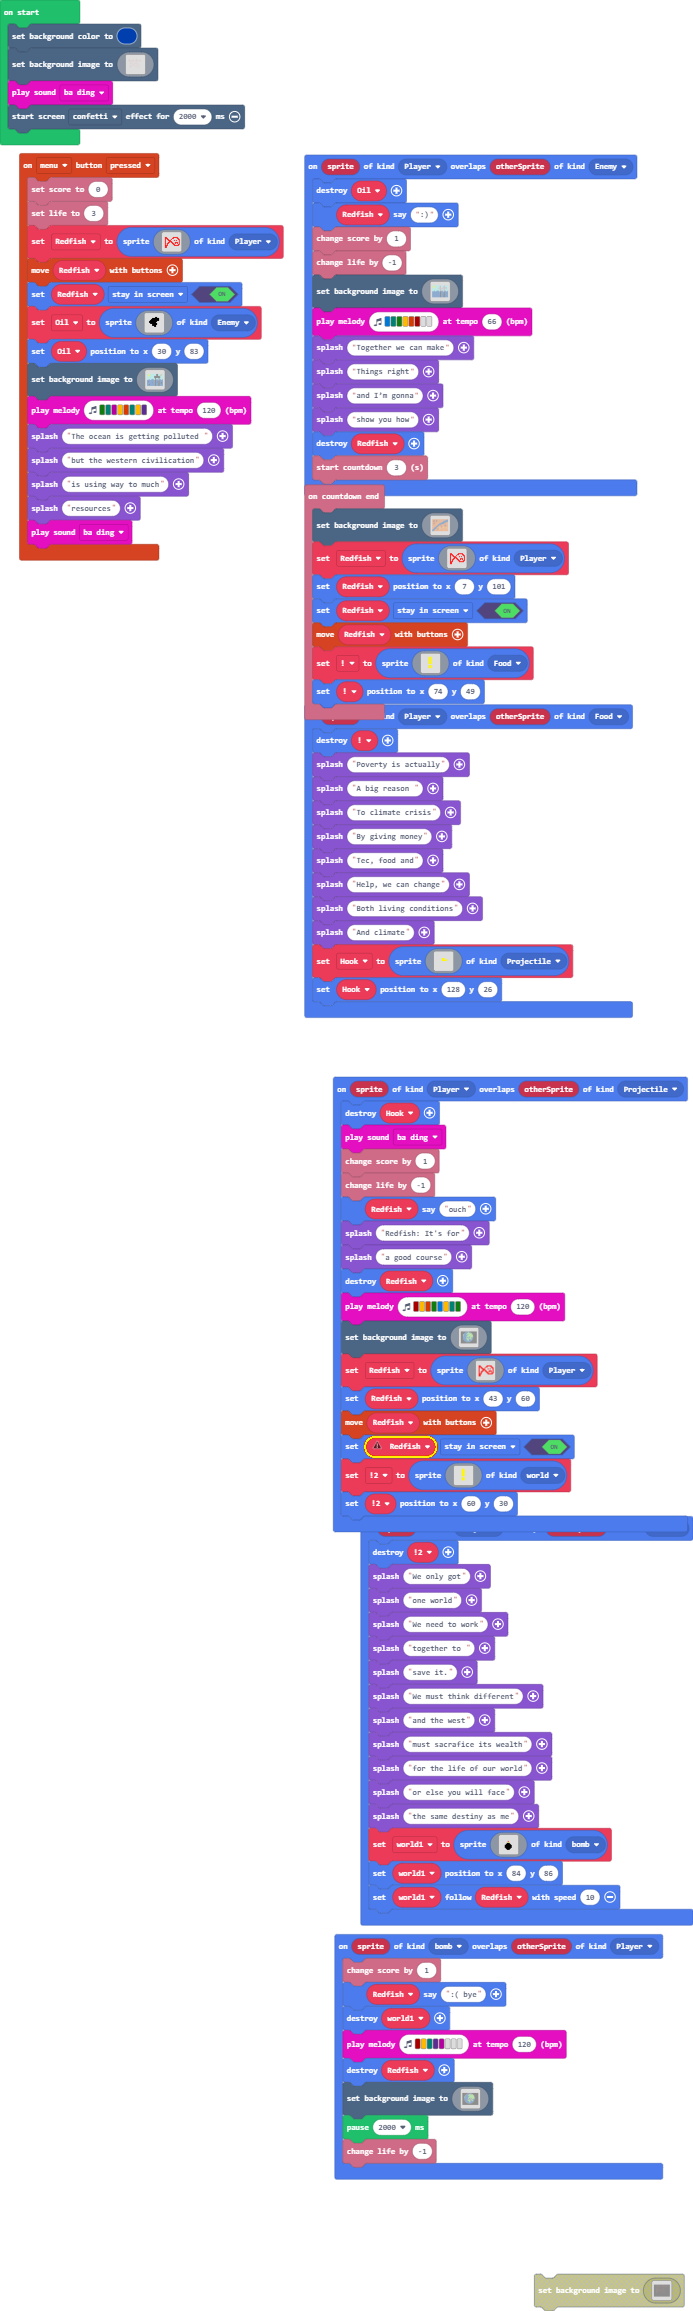
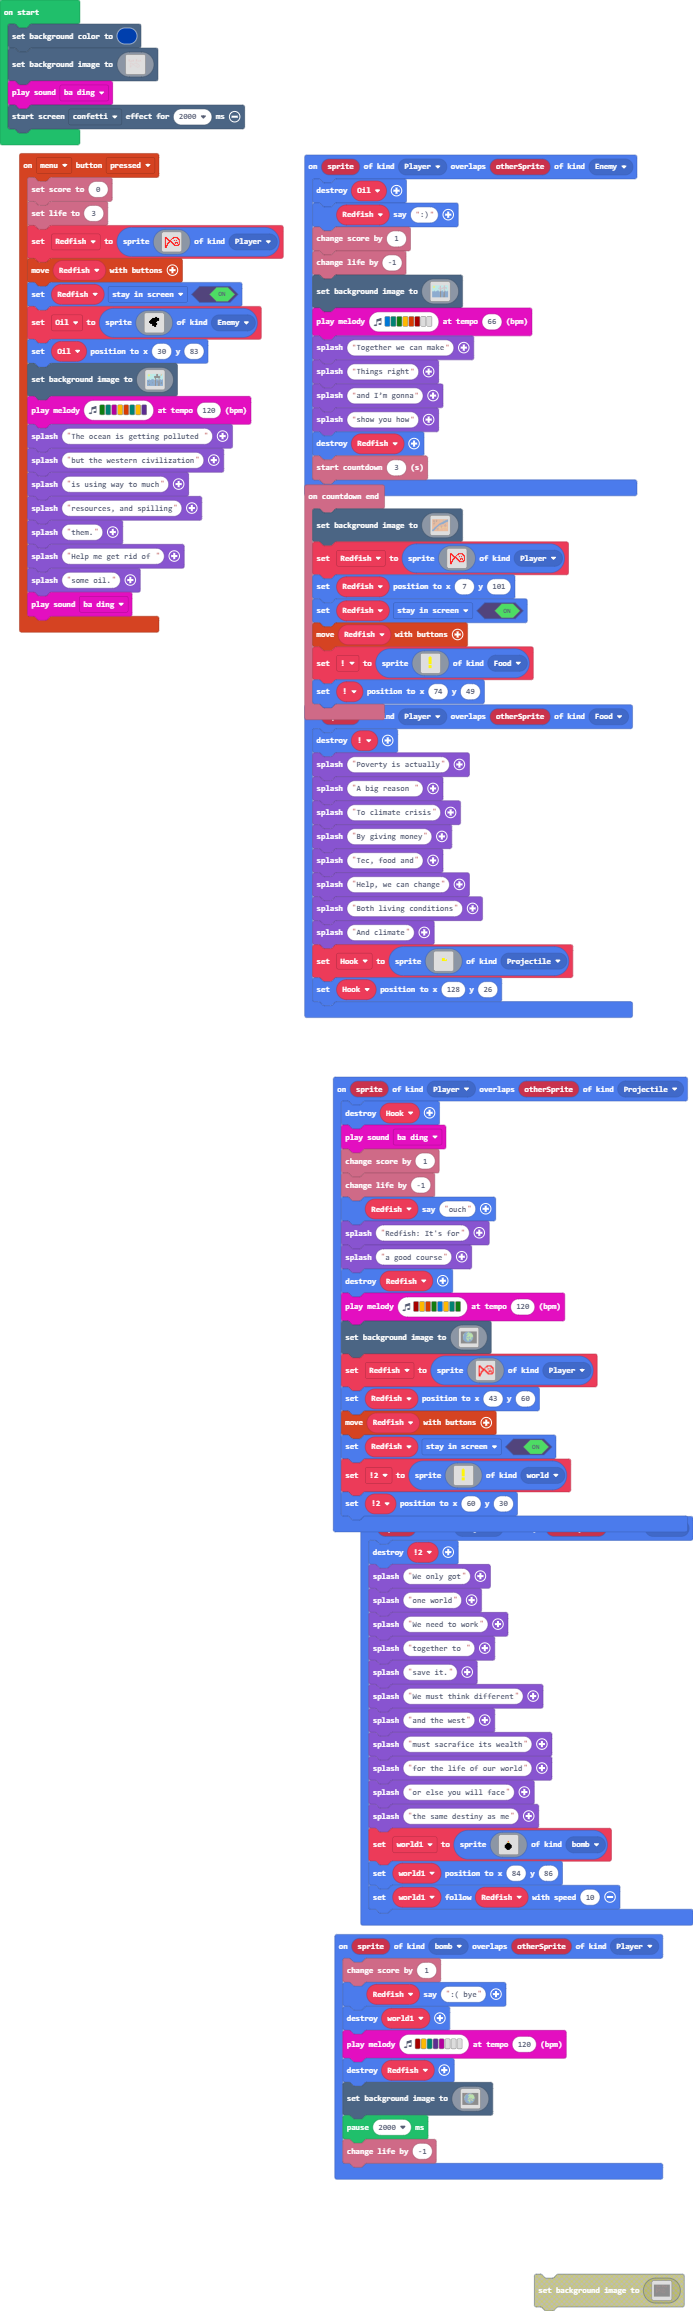
Update main.blocks, main.ts

Changed region(s): [[0.0303, 0.2181, 0.303, 0.2804], [0.7273, 0.6231, 0.8485, 0.6543], [0.5455, 0.6231, 0.6364, 0.6543]]

diff --git a/main.ts b/main.ts
@@ -670,9 +670,12 @@ controller.menu.onEvent(ControllerButtonEvent.Pressed, function () {
         `)
     music.playMelody("G F C A B F A D ", 120)
     game.splash("The ocean is getting polluted ")
-    game.splash("but the western civilication")
+    game.splash("but the western civilization")
     game.splash("is using way to much")
-    game.splash("resources")
+    game.splash("resources, and spilling")
+    game.splash("them.")
+    game.splash("Help me get rid of ")
+    game.splash("some oil.")
     music.baDing.play()
 })
 sprites.onOverlap(SpriteKind.Player, SpriteKind.Food, function (sprite, otherSprite) {
